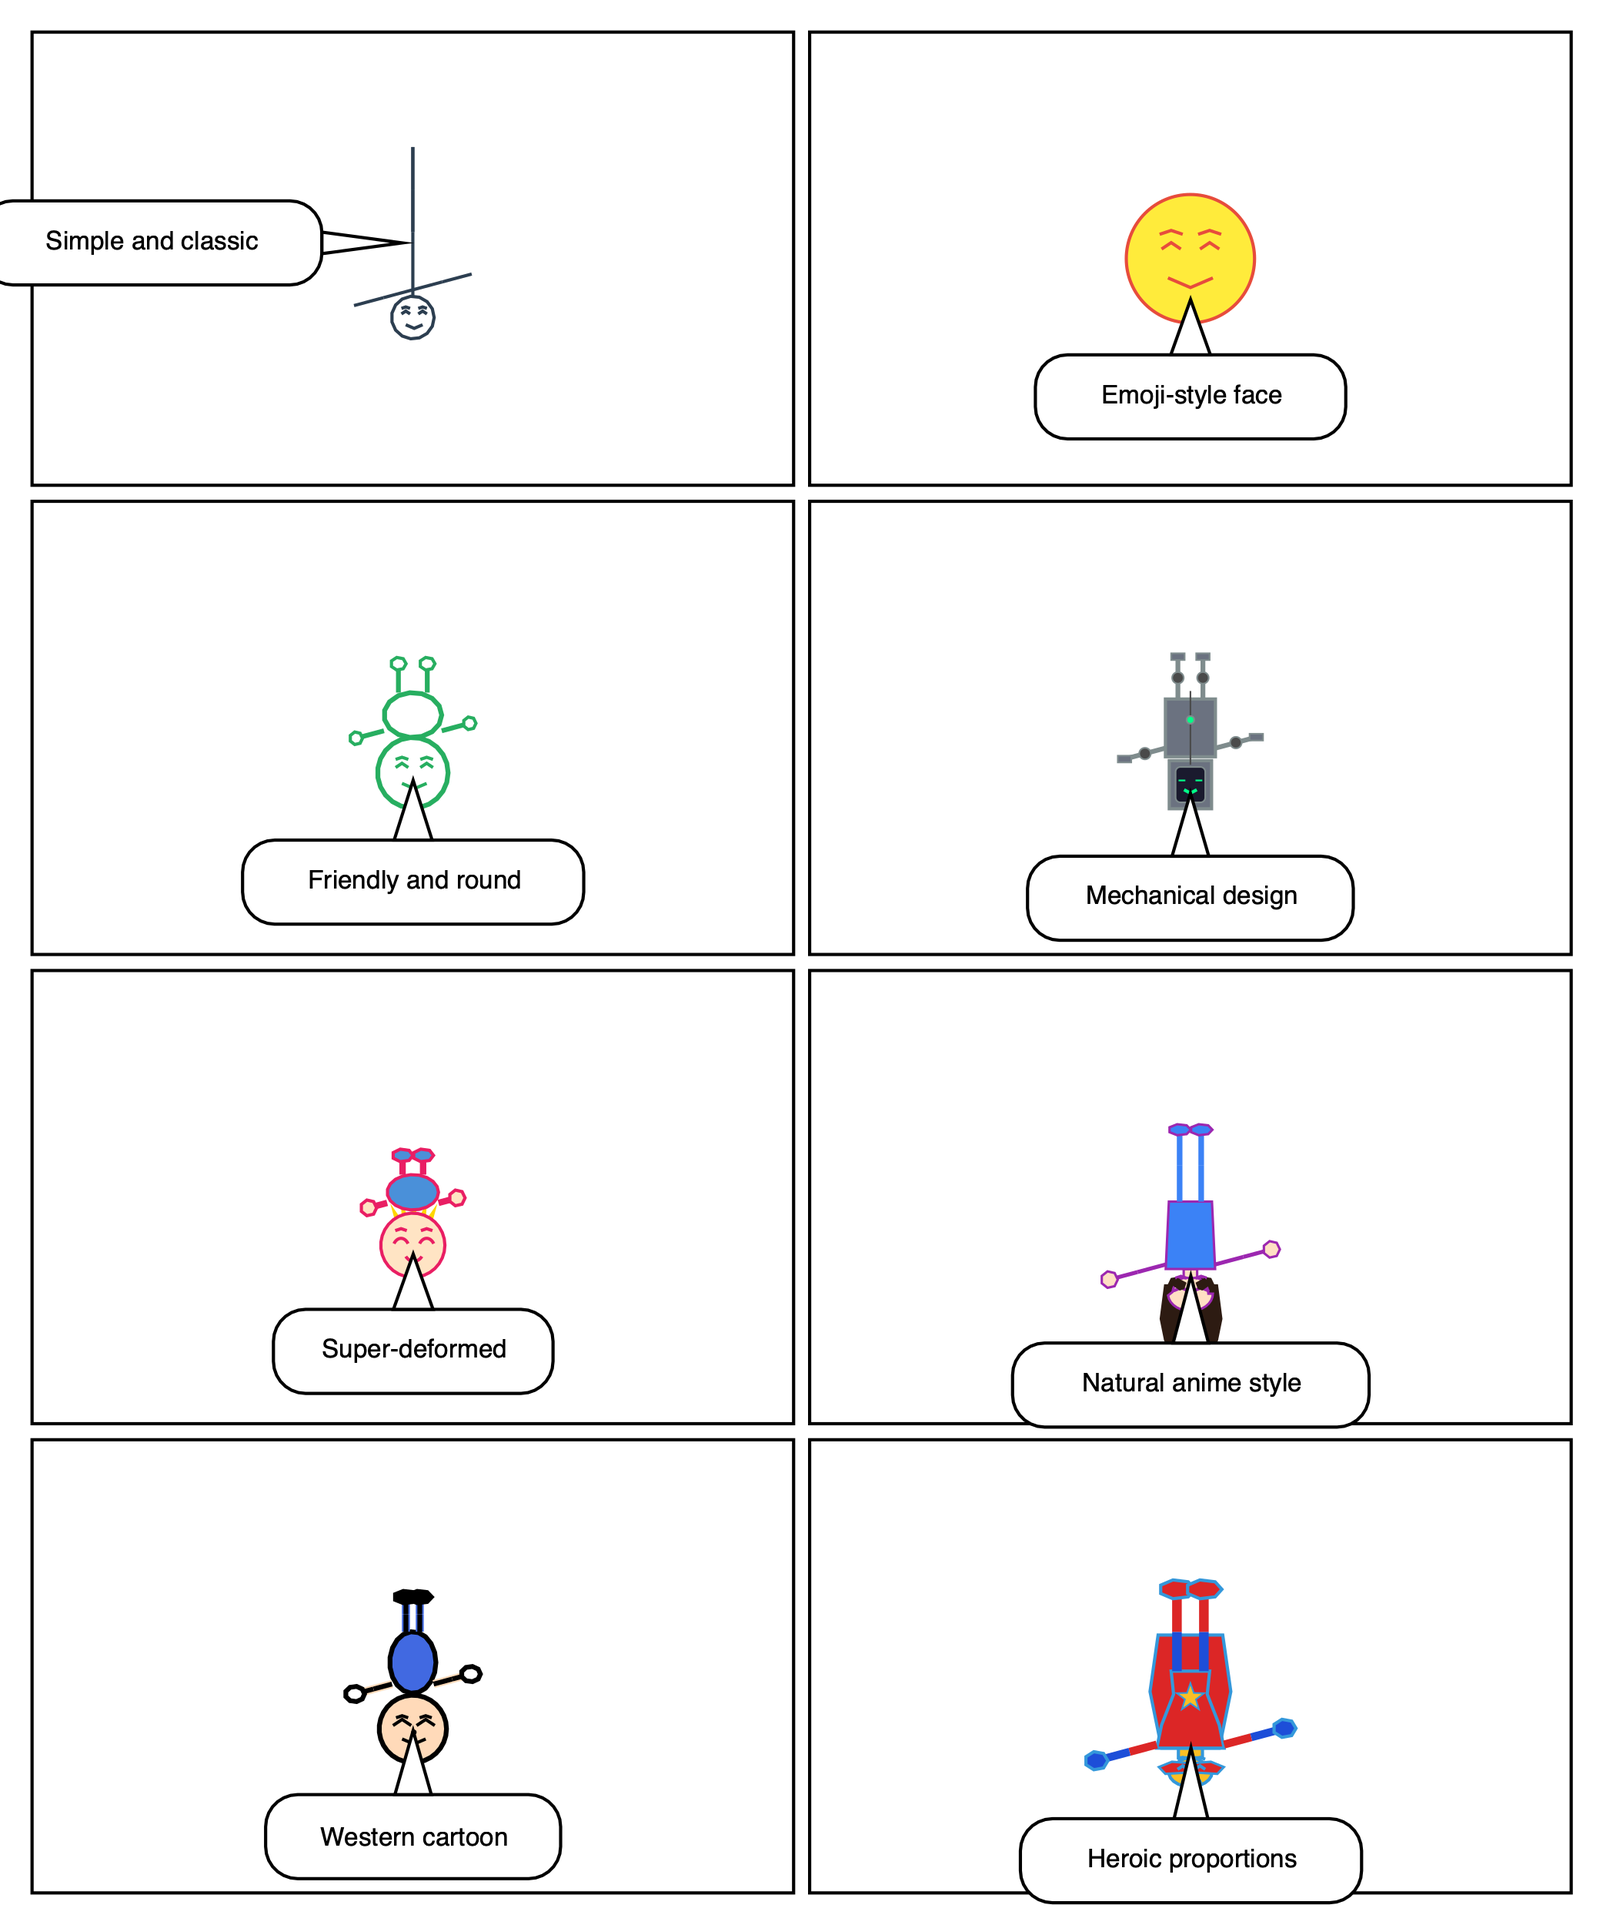
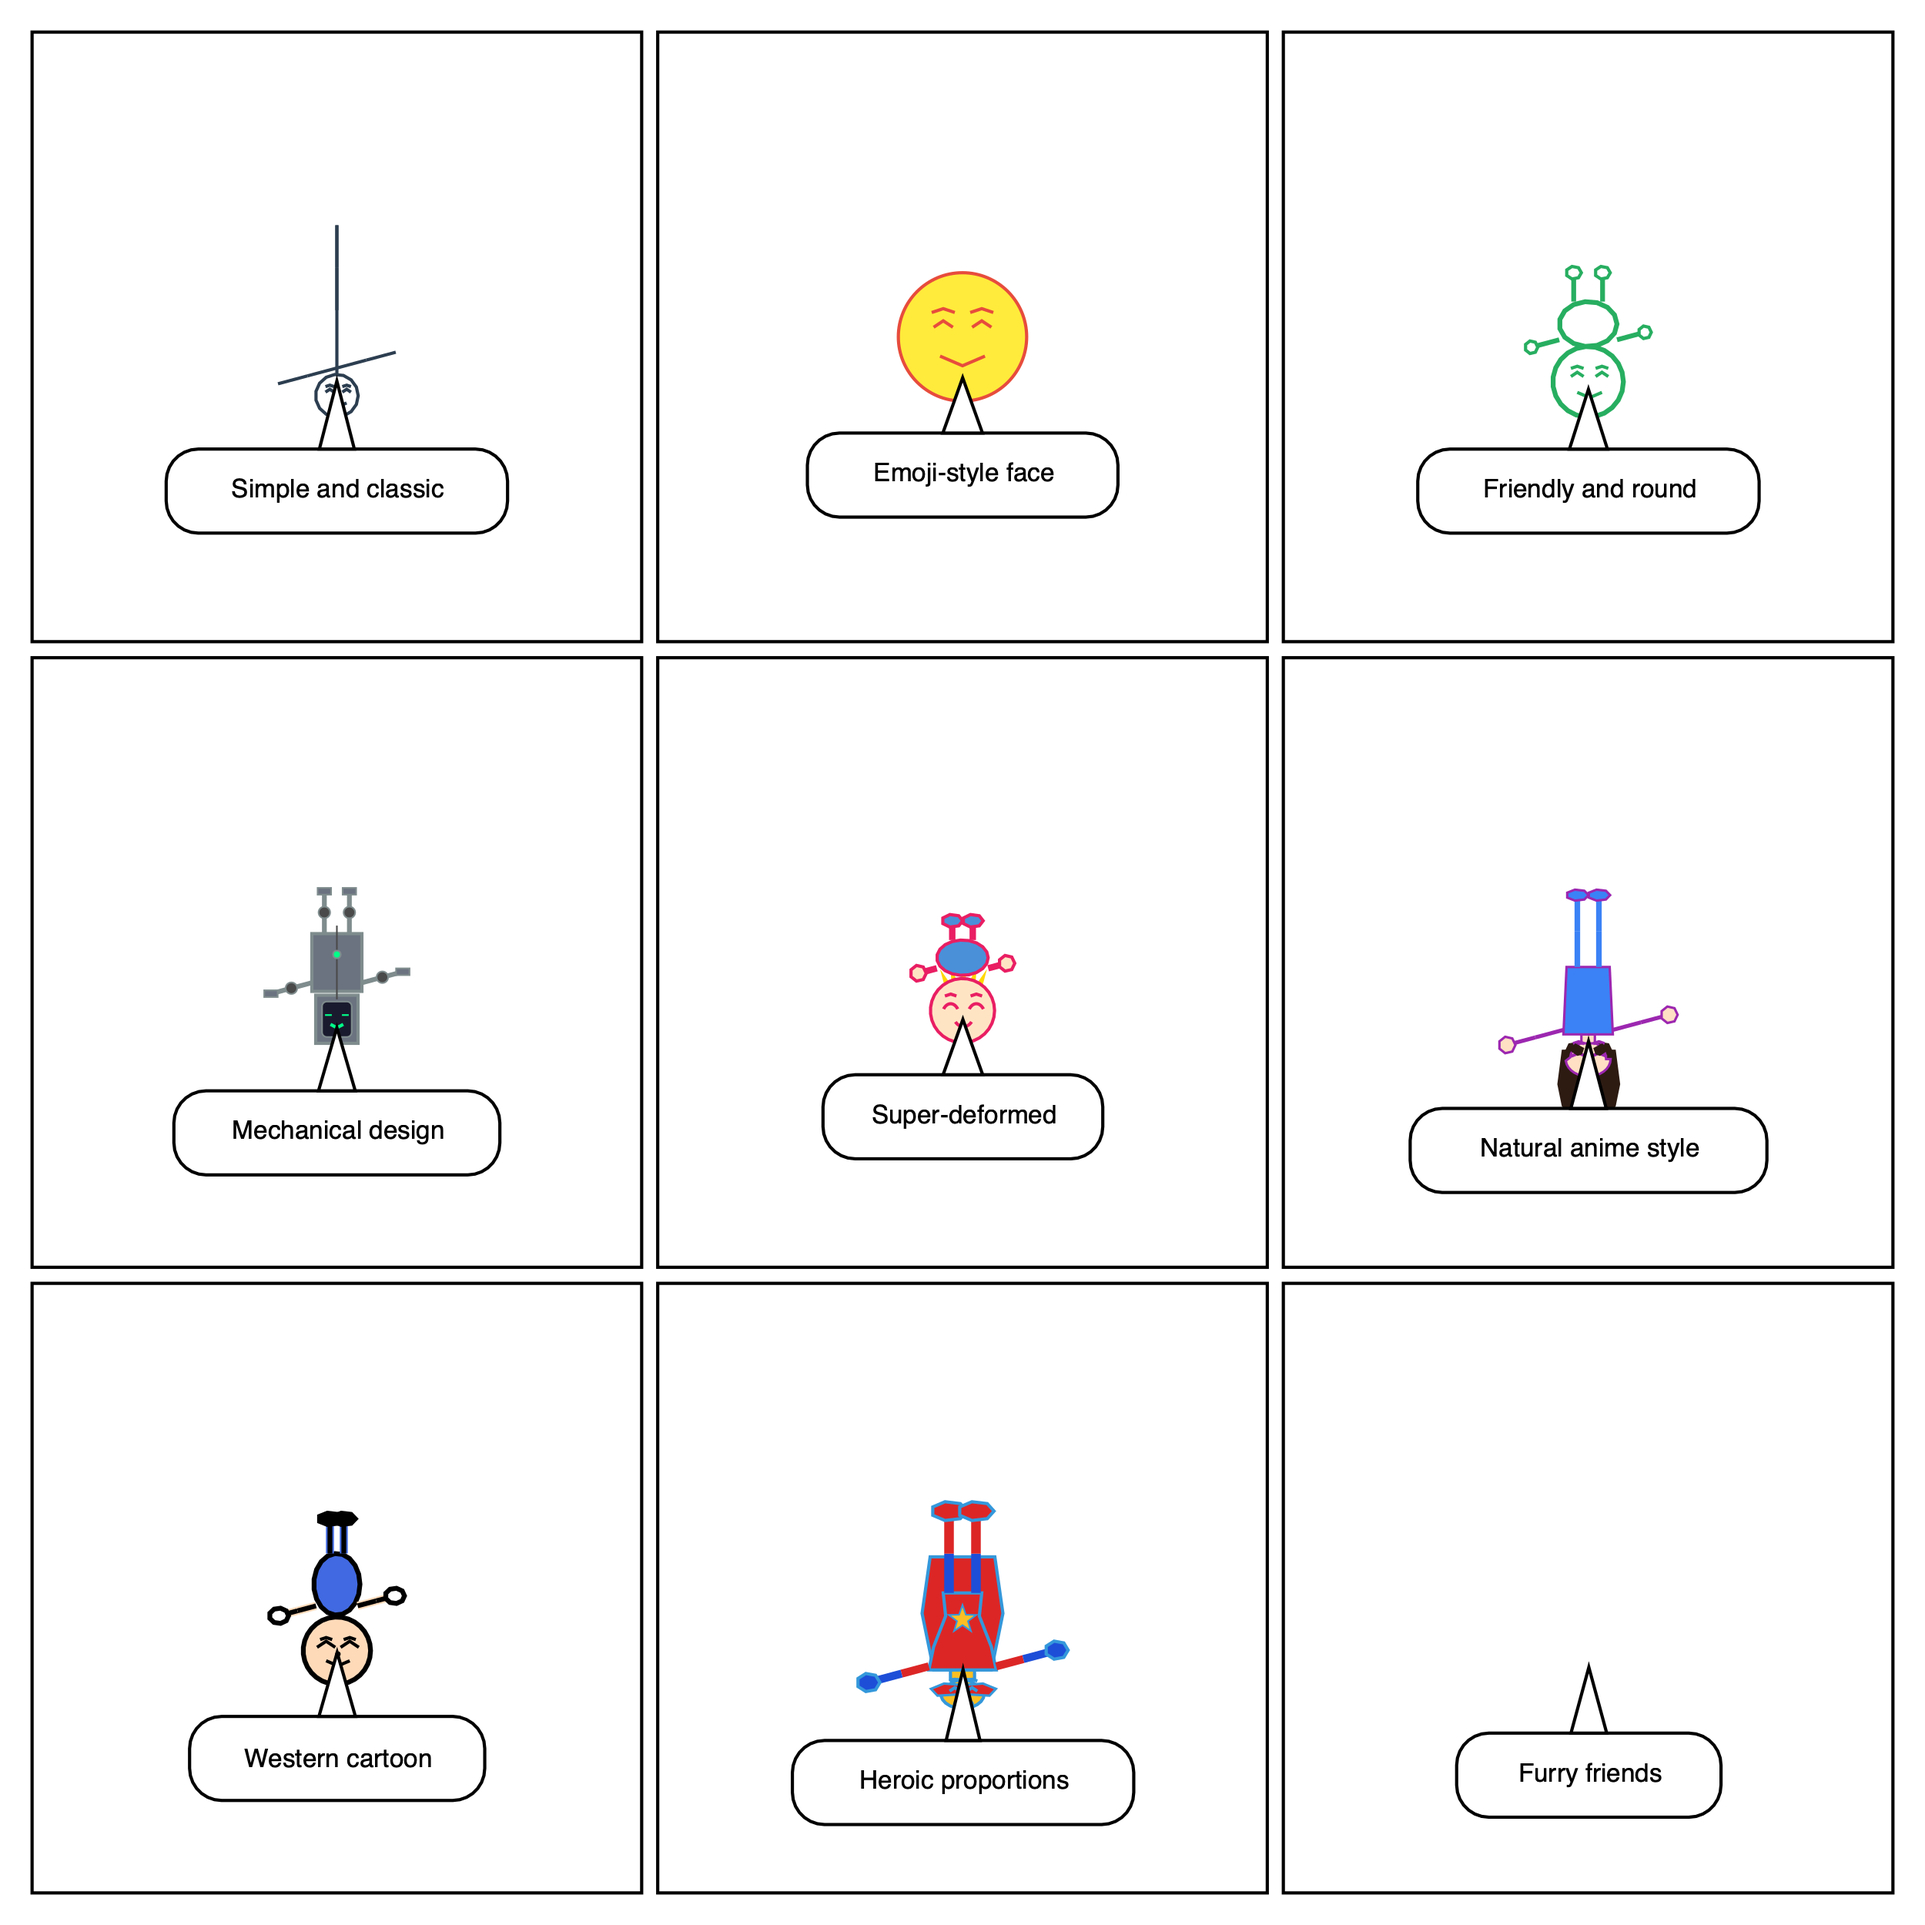
Update documentation for 9 character types and enhance example 16
- Update specs/README.md: version 0.1.83, test counts (2014), add AnimalStyle
- Update specs/character-basics.md: 9 character styles including AnimalStyle
- Update specs/PRD.md: 9 character types in Phase 1 documentation
- Enhance example 16 with AnimalStyle character and animal species showcase
- Add create_animal_species_showcase() demonstrating all 7 species
- Documentation now consistent across all spec files

Changed region(s): [[0.0, 0.0312, 0.9986, 0.9984], [0.4369, 0.78, 0.5617, 0.9672], [0.4681, 0.468, 0.5305, 0.624]]

diff --git a/examples/16_character_types.py b/examples/16_character_types.py
@@ -1,4 +1,4 @@
-"""Showcase of all 8 character types available in Comix.
+"""Showcase of all 9 character types available in Comix.
 
 This example demonstrates the variety of character styles:
 1. Stickman - Simple stick figure (default)
@@ -9,6 +9,7 @@ This example demonstrates the variety of character styles:
 6. Anime - Natural anime proportions
 7. Cartoon - Western cartoon style
 8. Superhero - Heroic proportions
+9. AnimalStyle - Anthropomorphic animal characters
 
 Each character type has unique visual characteristics while sharing
 the same expression and pose APIs.
@@ -25,14 +26,15 @@ from comix import (
     Anime,
     Cartoon,
     Superhero,
+    AnimalStyle,
 )
 
 
 def create_character_showcase() -> None:
-    """Create a showcase page with all 8 character types."""
-    # Create a 2x4 grid page (8 panels for 8 character types)
-    page = Page(width=1000, height=1200)
-    page.set_layout(rows=4, cols=2)
+    """Create a showcase page with all 9 character types."""
+    # Create a 3x3 grid page (9 panels for 9 character types)
+    page = Page(width=1200, height=1200)
+    page.set_layout(rows=3, cols=3)
 
     # Define all character types with their distinctive colors
     character_types = [
@@ -44,15 +46,15 @@ def create_character_showcase() -> None:
         (Anime, "Anime", "#9C27B0", "Natural anime style"),
         (Cartoon, "Cartoon", "#FF9800", "Western cartoon"),
         (Superhero, "Superhero", "#3498DB", "Heroic proportions"),
+        (AnimalStyle, "AnimalStyle", "#8B4513", "Furry friends"),
     ]
 
-    # Panel positions for 2x4 grid on 1000x1200 page
-    # Columns at x=257.5, 742.5; Rows at y=161.25, 453.75, 746.25, 1038.75
+    # Panel positions for 3x3 grid on 1200x1200 page
+    # Columns at x=210, 600, 990; Rows at y=210, 600, 990
     panel_positions = [
-        (257.5, 161.25), (742.5, 161.25),
-        (257.5, 453.75), (742.5, 453.75),
-        (257.5, 746.25), (742.5, 746.25),
-        (257.5, 1038.75), (742.5, 1038.75),
+        (210, 210), (600, 210), (990, 210),
+        (210, 600), (600, 600), (990, 600),
+        (210, 990), (600, 990), (990, 990),
     ]
 
     for i, (char_class, name, color, description) in enumerate(character_types):
@@ -77,6 +79,9 @@ def create_character_showcase() -> None:
         elif char_class == Cartoon:
             # Cartoon has body shape options
             char = char_class(name=name, height=120, color=color, body_shape="round")
+        elif char_class == AnimalStyle:
+            # AnimalStyle has species presets
+            char = char_class(name=name, height=120, species="cat", fur_color=color)
         else:
             # Stickman and ChubbyStickman use default parameters
             char = char_class(name=name, height=100, color=color)
@@ -100,21 +105,21 @@ def create_character_showcase() -> None:
 
 def create_expression_comparison() -> None:
     """Create a comparison showing the same expression across different character types."""
-    page = Page(width=1200, height=400)
-    page.set_layout(rows=1, cols=4)
+    page = Page(width=1500, height=400)
+    page.set_layout(rows=1, cols=5)
 
-    # Select 4 representative character types
+    # Select 5 representative character types (now including AnimalStyle)
     types_to_compare = [
         (Stickman, "Stickman", "#2C3E50"),
         (ChubbyStickman, "Chubby", "#27AE60"),
         (Anime, "Anime", "#9C27B0"),
         (Robot, "Robot", "#7F8C8D"),
+        (AnimalStyle, "Fox", "#D2691E"),
     ]
 
-    # Panel positions for 4x1 grid on 1200x400 page
-    # Columns at x=161.25, 453.75, 746.25, 1038.75; Row at y=200
+    # Panel positions for 5x1 grid on 1500x400 page
     panel_positions = [
-        (161.25, 200), (453.75, 200), (746.25, 200), (1038.75, 200),
+        (160, 200), (460, 200), (760, 200), (1060, 200), (1360, 200),
     ]
 
     for i, (char_class, name, color) in enumerate(types_to_compare):
@@ -124,6 +129,8 @@ def create_expression_comparison() -> None:
             char = char_class(name=name, height=120, color=color)
         elif char_class == Robot:
             char = char_class(name=name, height=100, color=color)
+        elif char_class == AnimalStyle:
+            char = char_class(name=name, height=110, species="fox", fur_color=color)
         else:
             char = char_class(name=name, height=100, color=color)
 
@@ -151,7 +158,7 @@ def create_pose_showcase() -> None:
         (Anime, "pointing", "#9C27B0"),
         (Superhero, "jumping", "#3498DB"),
         (Cartoon, "dancing", "#FF9800"),
-        (Robot, "walking", "#7F8C8D"),
+        (AnimalStyle, "walking", "#8B4513"),
     ]
 
     # Panel positions for 3x2 grid on 1200x800 page
@@ -168,8 +175,8 @@ def create_pose_showcase() -> None:
             char = char_class(height=130, color=color)
         elif char_class == Superhero:
             char = char_class(height=140, color=color, cape=True)
-        elif char_class == Robot:
-            char = char_class(height=110, color=color)
+        elif char_class == AnimalStyle:
+            char = char_class(height=120, species="dog", fur_color=color)
         elif char_class == Cartoon:
             char = char_class(height=110, color=color)
         else:
@@ -187,8 +194,55 @@ def create_pose_showcase() -> None:
     print("Created examples/output/16_pose_showcase.png")
 
 
+def create_animal_species_showcase() -> None:
+    """Create a showcase of different animal species in AnimalStyle."""
+    page = Page(width=1400, height=600)
+    page.set_layout(rows=2, cols=4)
+
+    # All 7 species presets available in AnimalStyle
+    species_list = [
+        ("cat", "#FF8C00", "Meow!"),
+        ("dog", "#8B4513", "Woof!"),
+        ("rabbit", "#FFB6C1", "Hop hop!"),
+        ("fox", "#D2691E", "Clever!"),
+        ("bear", "#4A3728", "Roar!"),
+        ("bird", "#FFD700", "Tweet!"),
+        ("wolf", "#696969", "Howl!"),
+    ]
+
+    # Panel positions for 4x2 grid on 1400x600 page
+    panel_positions = [
+        (185, 157.5), (535, 157.5), (885, 157.5), (1235, 157.5),
+        (185, 442.5), (535, 442.5), (885, 442.5), (1235, 442.5),
+    ]
+
+    for i, (species, fur_color, speech) in enumerate(species_list):
+        panel = Panel()
+
+        char = AnimalStyle(
+            name=species.title(),
+            height=100,
+            species=species,
+            fur_color=fur_color,
+        )
+        char.move_to(panel_positions[i])
+        char.set_expression("happy")
+
+        bubble = char.say(speech)
+        panel.add_content(char, bubble)
+        page.add(panel)
+
+    # Add empty 8th panel (for grid completion)
+    page.add(Panel())
+
+    page.auto_layout()
+    page.render("examples/output/16_animal_species.png")
+    print("Created examples/output/16_animal_species.png")
+
+
 if __name__ == "__main__":
     create_character_showcase()
     create_expression_comparison()
     create_pose_showcase()
+    create_animal_species_showcase()
     print("\nAll character type examples created successfully!")

diff --git a/IMPLEMENTATION_PLAN.md b/IMPLEMENTATION_PLAN.md
@@ -2,7 +2,7 @@
 
 ## Status: Core Features Complete (Phases 1-5) + Simplified Focus
 
-**Current Git Tag: v0.1.83**
+**Current Git Tag: v0.1.84**
 
 프로젝트를 **정적 만화 제작**에 집중하기 위해 간소화했습니다.
 Core phases (1-5) 구현 완료. Advanced features (phases 6-8)는 보류.
@@ -97,9 +97,18 @@ See [CHANGELOG.md](CHANGELOG.md) for version history and release notes.
 
 ---
 
-## Note: Stable Release (v0.1.83)
+## Note: Stable Release (v0.1.84)
 
 All systems stable with 2014 tests passing (+ 30 skipped = 2044 collected). Version numbers synchronized across all files.
+
+v0.1.84 changes:
+- Updated documentation to reflect 9 character types (added AnimalStyle references)
+- Updated specs/README.md with correct version (0.1.83), test counts (2014), and AnimalStyle
+- Updated specs/character-basics.md with AnimalStyle character type
+- Updated specs/PRD.md with 9 character types
+- Enhanced example 16 to showcase all 9 character types including AnimalStyle
+- Added new `create_animal_species_showcase()` function demonstrating all 7 animal species
+- Documentation now consistent across all spec files
 
 v0.1.83 changes:
 - Added `AnimalStyle` character class - anthropomorphic animal characters for furry/mascot-style comics

diff --git a/specs/README.md b/specs/README.md
@@ -76,7 +76,7 @@ All 24 examples (01-24) execute without errors and produce correct visual output
 
 ## Features
 
-### Character Types
+### Character Types (9 styles)
 - **Stickman** - Basic stick figure with expressions
 - **SimpleFace** - Emoticon-style face
 - **ChubbyStickman** - Rounded, friendly stick figure
@@ -85,6 +85,7 @@ All 24 examples (01-24) execute without errors and produce correct visual output
 - **Anime** - Natural proportion anime character
 - **Superhero** - Heroic character with costume options
 - **Cartoon** - Classic Western cartoon style
+- **AnimalStyle** - Anthropomorphic animal characters (cat, dog, rabbit, fox, bear, bird, wolf)
 
 ### Expressions (11 types)
 neutral, happy, sad, angry, surprised, confused, sleepy, excited, scared, smirk, crying
@@ -215,8 +216,8 @@ See `IMPLEMENTATION_PLAN.md` for current implementation status.
 
 ---
 
-**Version**: 0.1.81 (as of 2026-01-18)
+**Version**: 0.1.83 (as of 2026-01-18)
 **Last Updated**: 2026-01-18
 **Maintainer**: Claude Code Ralph Agent
 
-All systems stable with 1982 tests passing (+ 30 skipped = 2012 collected).
+All systems stable with 2014 tests passing (+ 30 skipped = 2044 collected).

diff --git a/specs/character-basics.md b/specs/character-basics.md
@@ -34,9 +34,10 @@ Without working character rendering, comics appear broken or incomplete.
 - [x] Character has a name property for debugging
 
 ### Implemented Beyond Original Scope
-- [x] 8 character styles: Stickman, SimpleFace, ChubbyStickman, Robot, Chibi, Anime, Superhero, Cartoon
+- [x] 9 character styles: Stickman, SimpleFace, ChubbyStickman, Robot, Chibi, Anime, Superhero, Cartoon, AnimalStyle
 - [x] 11 expressions: neutral, happy, sad, angry, surprised, confused, sleepy, excited, scared, smirk, crying
 - [x] 12 poses: standing, sitting, waving, pointing, walking, running, jumping, dancing, lying, kneeling, cheering, thinking
+- [x] AnimalStyle species: cat, dog, rabbit, fox, bear, bird, wolf with customizable fur colors and features
 
 ### Won't Have
 - [ ] Custom body part proportions (beyond character style presets)

diff --git a/specs/PRD.md b/specs/PRD.md
@@ -1405,7 +1405,7 @@ sfx = SFX(
 ### Phase 1: 코어 (MVP) ✅
 - [x] CObject 기본 클래스 (위치, 크기, 회전, 불투명도, z-index)
 - [x] Panel, Bubble (5종류), Text, SFX
-- [x] Character 클래스 (8종류: Stickman, SimpleFace, ChubbyStickman, Robot, Chibi, Anime, Cartoon, Superhero)
+- [x] Character 클래스 (9종류: Stickman, SimpleFace, ChubbyStickman, Robot, Chibi, Anime, Cartoon, Superhero, AnimalStyle)
 - [x] Expression 시스템 (11개: neutral, happy, sad, angry, surprised, confused, sleepy, excited, scared, smirk, crying)
 - [x] Pose 시스템 (12개: standing, sitting, waving, pointing, walking, running, jumping, dancing, lying, kneeling, cheering, thinking)
 - [x] SVG Renderer
